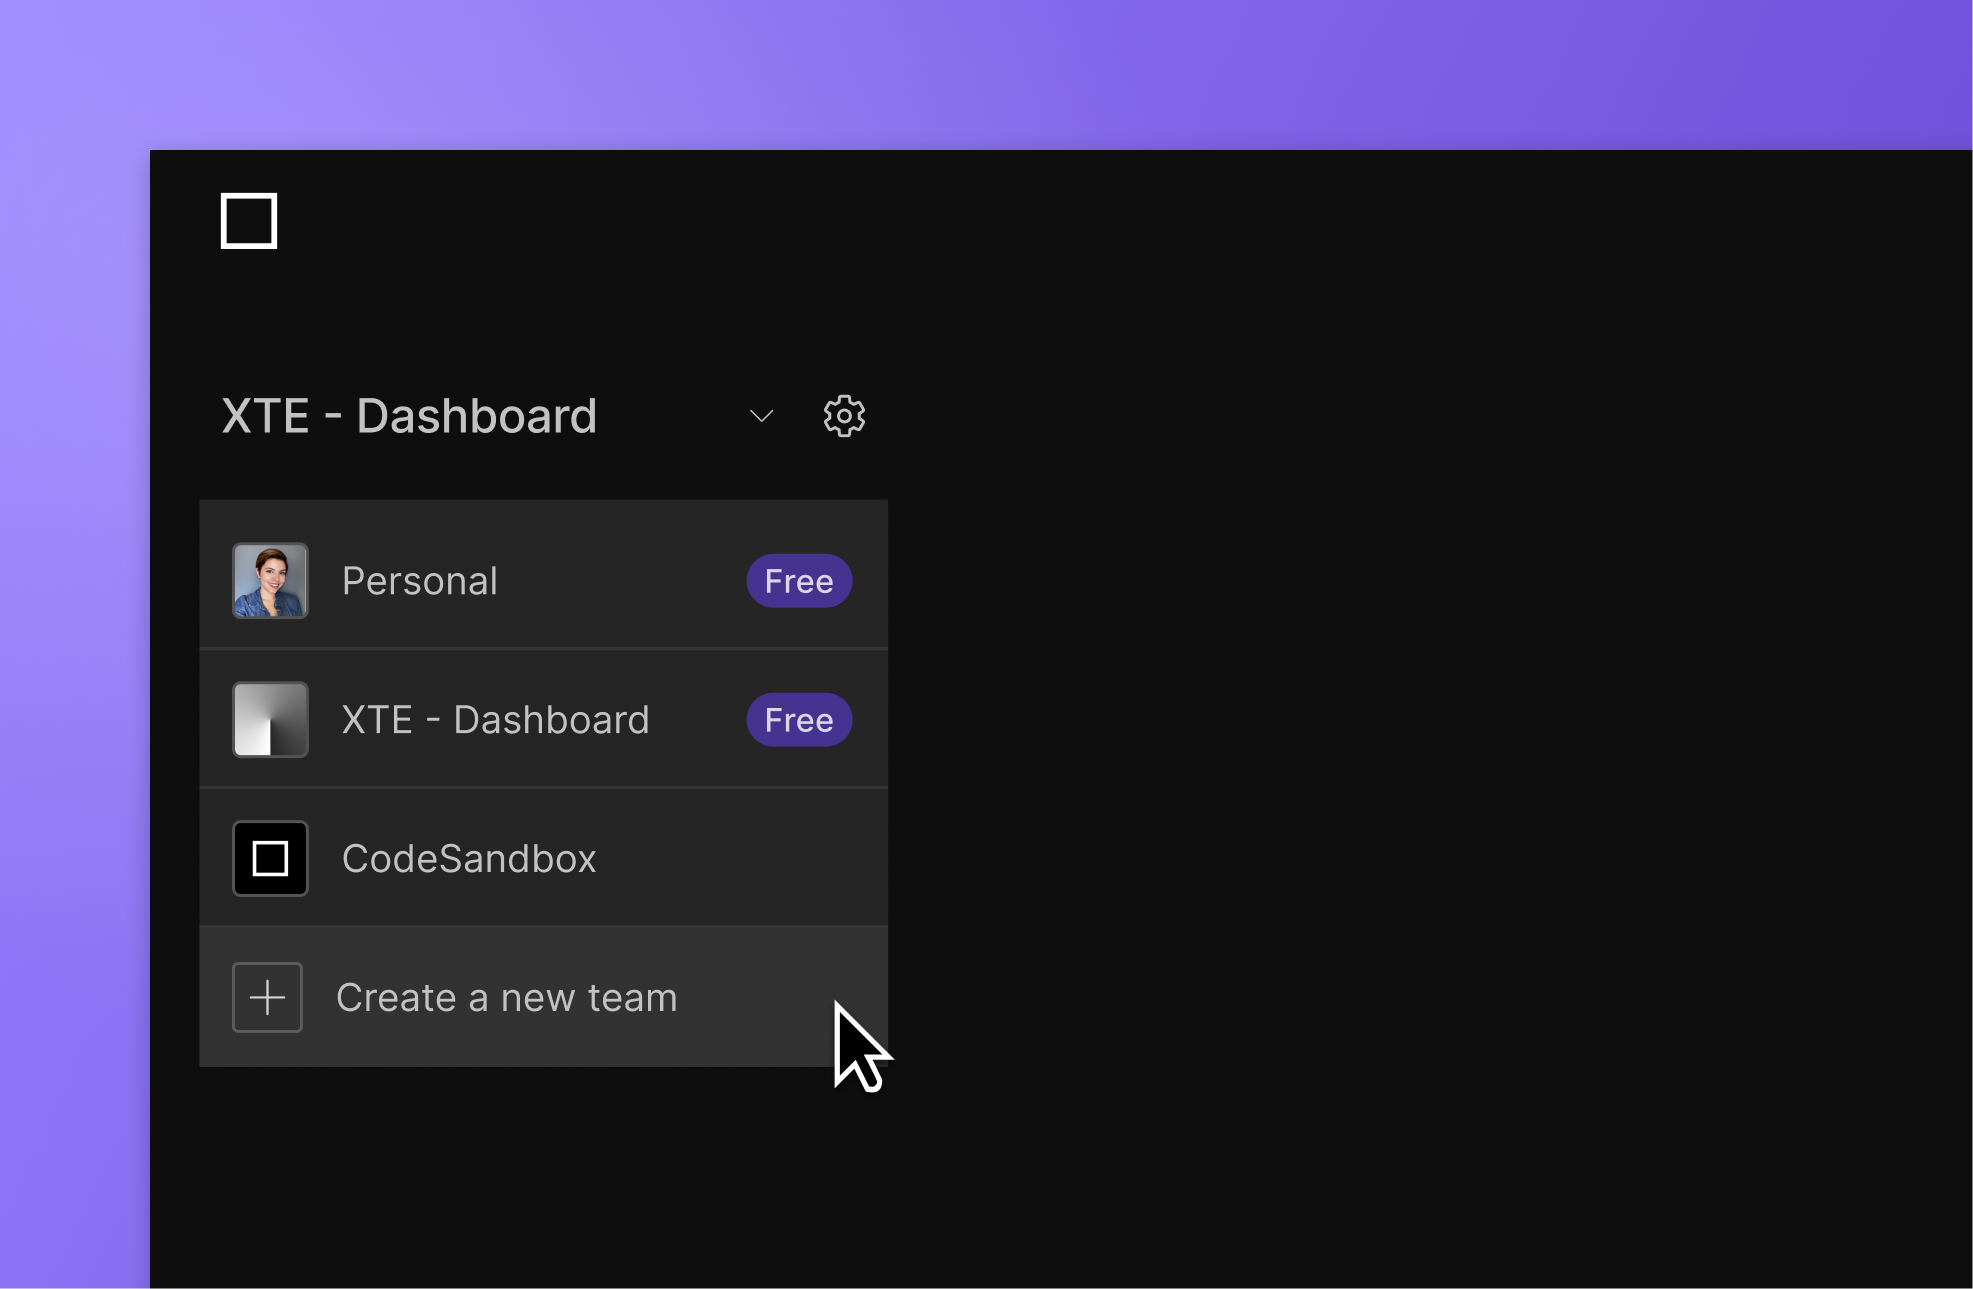
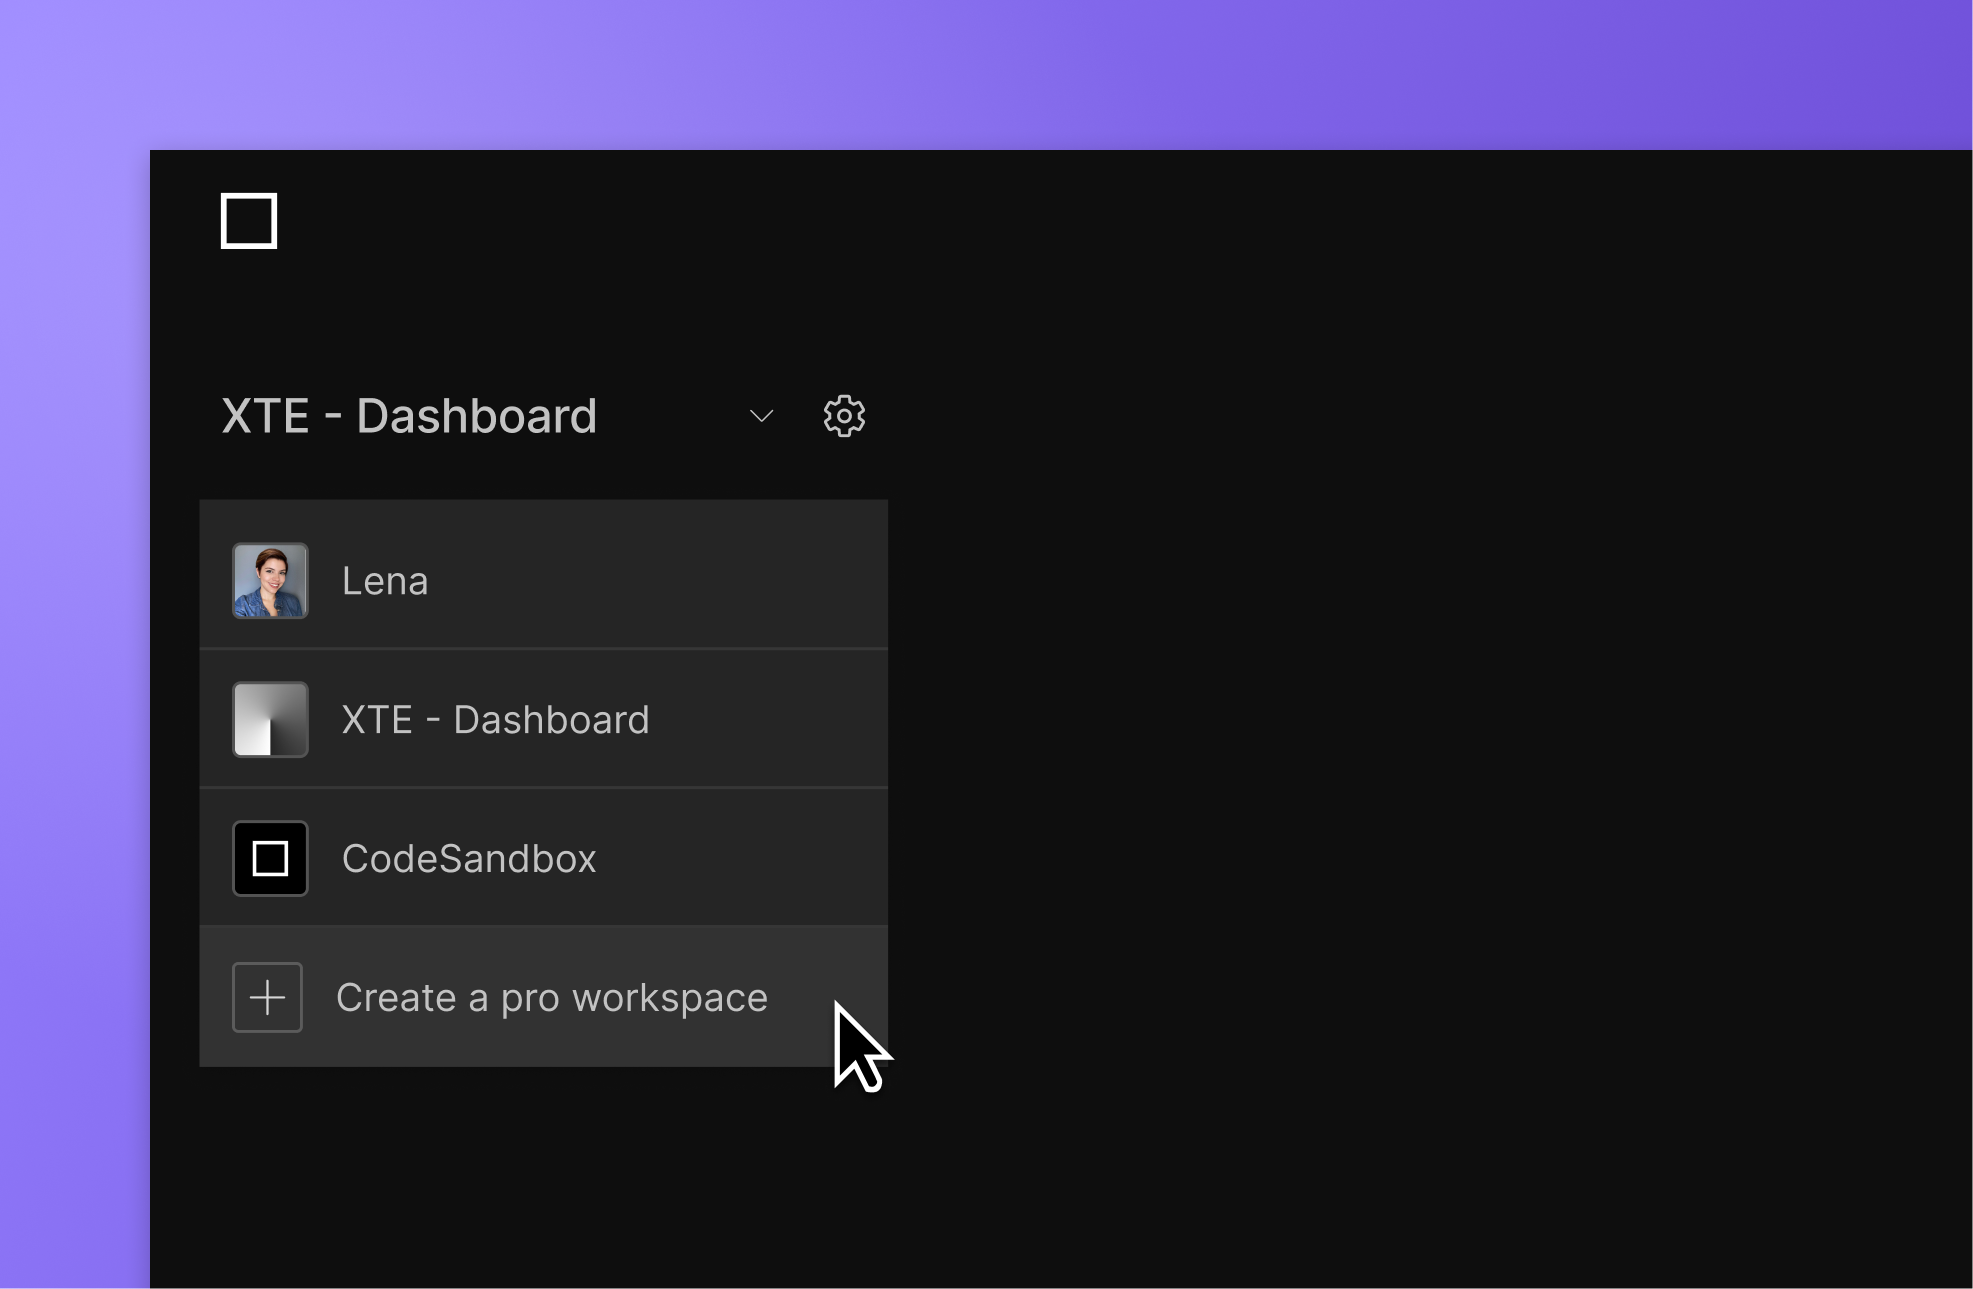
add new images

diff --git a/packages/projects-docs/next.config.js b/packages/projects-docs/next.config.js
@@ -439,32 +439,32 @@ module.exports = withTM(
         // changes after new subscription model
         {
           source: "/learn/teams/team-overview",
-          destination: "/learn/",
+          destination: "/learn/plans/plan-overview",
           permanent: true,
         },
         {
           source: "/learn/teams/permissions",
-          destination: "/learn/",
+          destination: "/learn/plans/permissions",
           permanent: true,
         },
         {
           source: "/learn/teams/preferences",
-          destination: "/learn/",
+          destination: "/learn/plans/preferences",
           permanent: true,
         },
         {
           source: "/learn/teams/workspace",
-          destination: "/learn/",
+          destination: "/learn/plans/workspace",
           permanent: true,
         },
         {
           source: "/learn/teams/plan-billing/pricing-faq",
-          destination: "/learn/",
+          destination: "/learn/plans/pricing-faq",
           permanent: true,
         },
         {
           source: "/learn/teams/plan-billing/trials",
-          destination: "/learn/",
+          destination: "/learn/plans/trials",
           permanent: true,
         },
       ];
